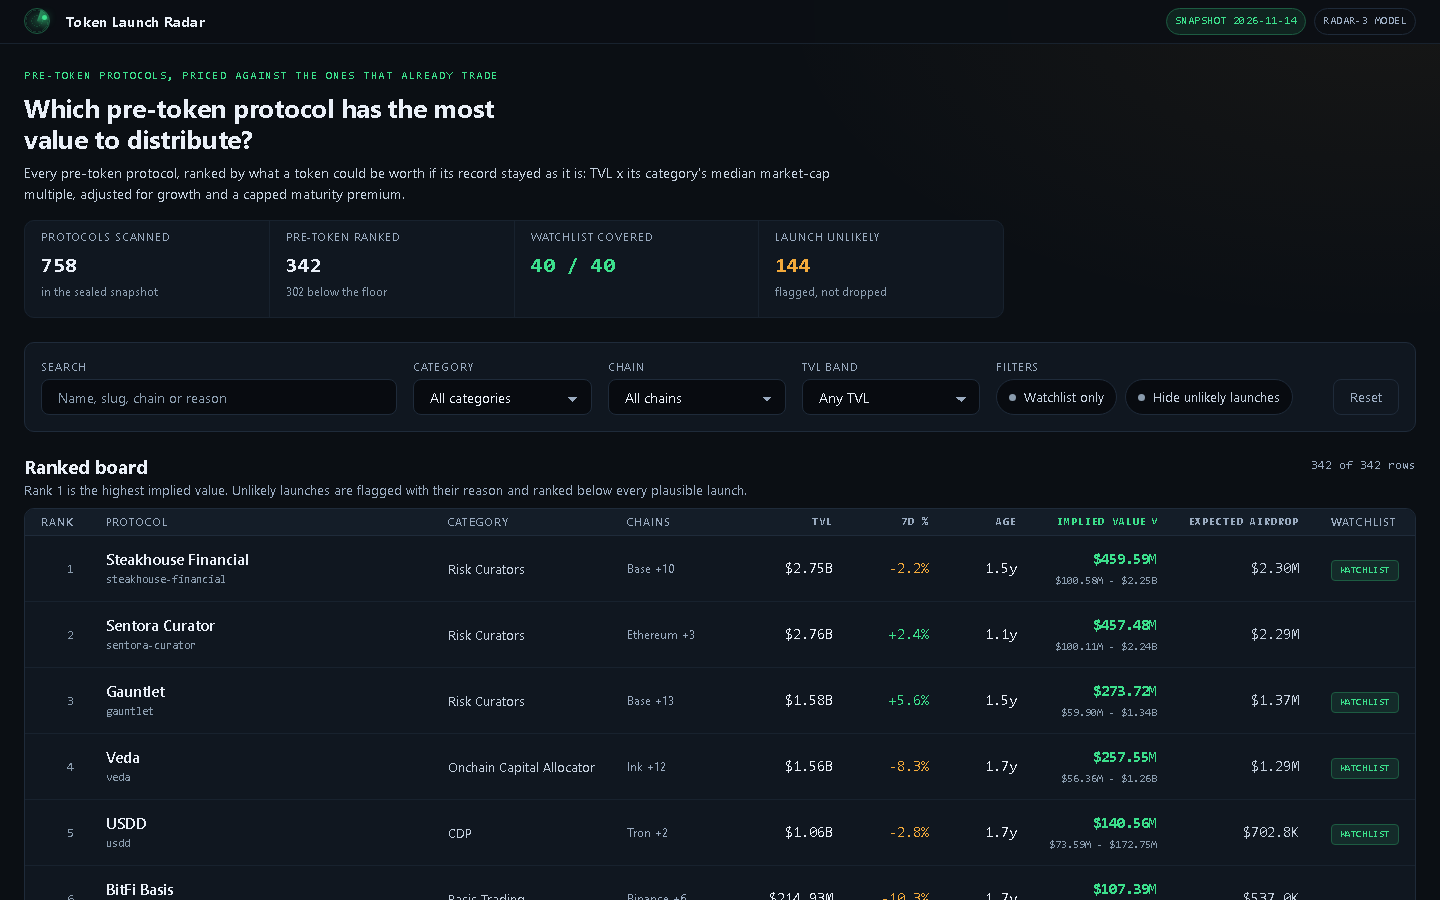
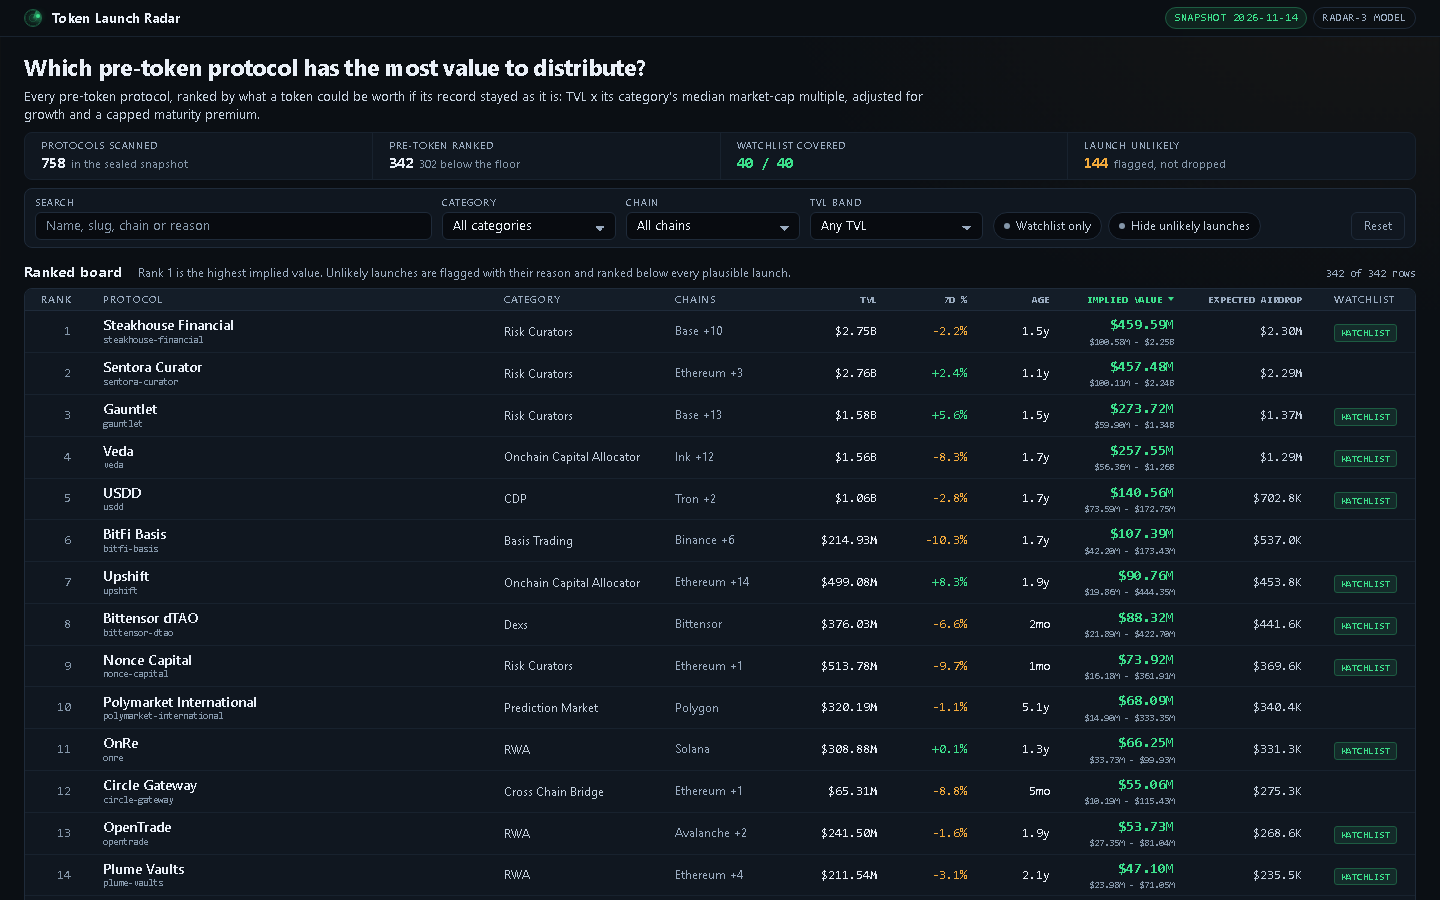
Read current dashboard files and app.js contract; Rewrite index.html: compact brand bar, two-line hero, slim control row; Rewrite app.css: density, 8pt rhythm, one green + one amber; Verify all 21 ids
4 files changed (+11 -3)
M  dashboard/app.css (+11 -3)
M  screenshots/1-board.png (binary)
M  screenshots/2-detail.png (binary)
M  screenshots/3-filtered.png (binary)

Superbot-Thread: ses_mwhrxkg7_m5801b
Superbot-Save: 2
Superbot-Source: step

diff --git a/dashboard/app.css b/dashboard/app.css
@@ -112,6 +112,10 @@ main { display: block; padding: 0 var(--s4) var(--s6); max-width: 1560px; margin
   font-family: var(--font); font-size: 10.5px; font-weight: 400; color: var(--dim);
   margin-left: 6px; letter-spacing: 0; text-transform: none;
 }
+@media (max-width: 900px) {
+  .stat dd { white-space: normal; }
+  .stat dd small { display: block; margin-left: 0; }
+}
 .stat-accent dd { color: var(--green); }
 .stat-warn dd { color: var(--amber); }
 
@@ -188,8 +192,12 @@ thead th .sort {
 }
 thead th .sort:hover { color: var(--text); }
 thead th[aria-sort="descending"] .sort, thead th[aria-sort="ascending"] .sort { color: var(--green); }
-thead th[aria-sort="descending"] .sort::after { content: "v"; font-size: 9px; }
-thead th[aria-sort="ascending"] .sort::after { content: "^"; font-size: 9px; }
+thead th[aria-sort] .sort::after {
+  content: ""; width: 0; height: 0; margin-left: 3px; flex: none;
+  border-left: 3px solid transparent; border-right: 3px solid transparent;
+}
+thead th[aria-sort="descending"] .sort::after { border-top: 4px solid var(--green); }
+thead th[aria-sort="ascending"] .sort::after { border-bottom: 4px solid var(--green); }
 th.num, td.num { text-align: right; font-variant-numeric: tabular-nums; }
 .board-table td { padding: 4px var(--s3); border-bottom: 1px solid var(--line-soft); vertical-align: middle; }
 .board-table tbody tr { cursor: pointer; transition: background-color 100ms ease; }
@@ -250,7 +258,7 @@ td.cell-name .meta-row { display: flex; align-items: center; gap: 6px; min-width
   background: var(--bg-deep); border: 1px solid var(--line-soft); border-left: 2px solid var(--green);
   border-radius: 6px; padding: 8px 10px; overflow-x: auto; margin: 0 0 10px;
 }
-.assumption { border-left-color: var(--amber); color: var(--amber); }
+.assumption { border-left-color: var(--amber); color: var(--text-2); }
 
 /* Footer */
 .foot { border-top: 1px solid var(--line-soft); padding: var(--s4) var(--s4) var(--s5); color: var(--dim); font-size: 11.5px; }
